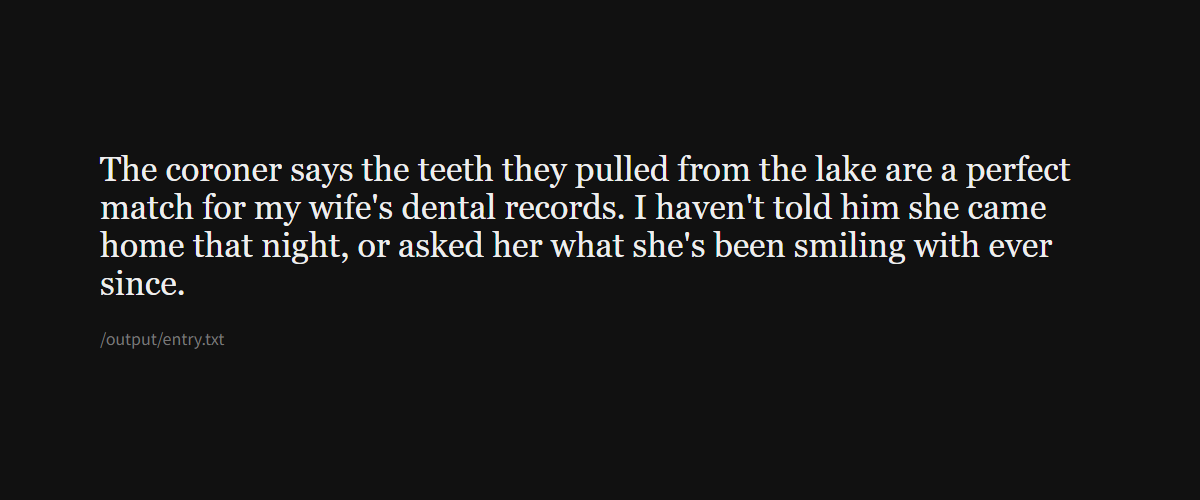
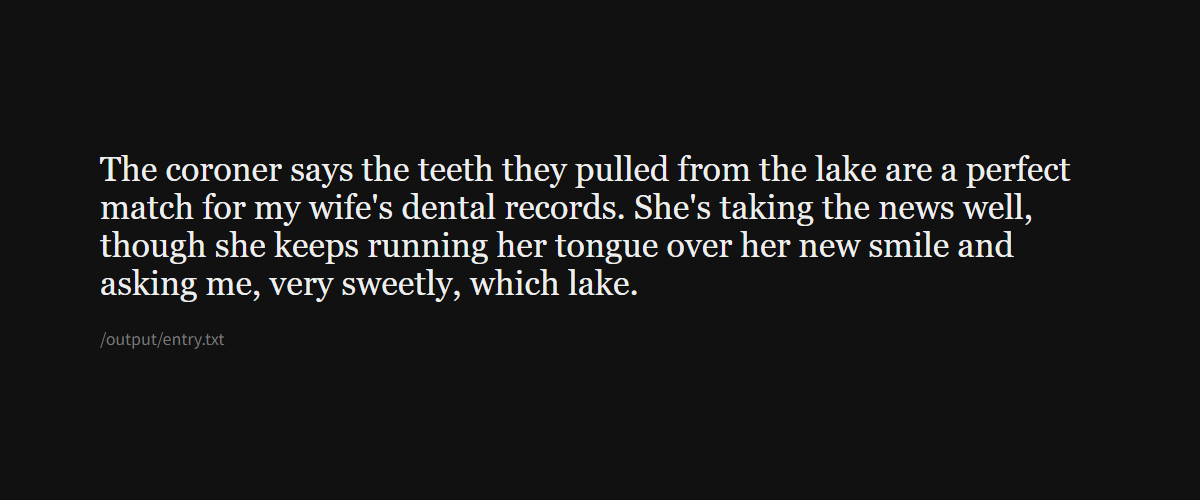
Sharper second sentence: which lake

Changed region(s): [[0.0617, 0.39, 0.8942, 0.6]]

diff --git a/main.ts b/main.ts
@@ -2,7 +2,7 @@
 import { mkdirSync, writeFileSync } from "node:fs";
 
 const story =
-  "The coroner says the teeth they pulled from the lake are a perfect match for my wife's dental records. I haven't told him she came home that night, or asked her what she's been smiling with ever since.";
+  "The coroner says the teeth they pulled from the lake are a perfect match for my wife's dental records. She's taking the news well, though she keeps running her tongue over her new smile and asking me, very sweetly, which lake.";
 
 mkdirSync("/output", { recursive: true });
 writeFileSync("/output/entry.txt", story, "utf8");
